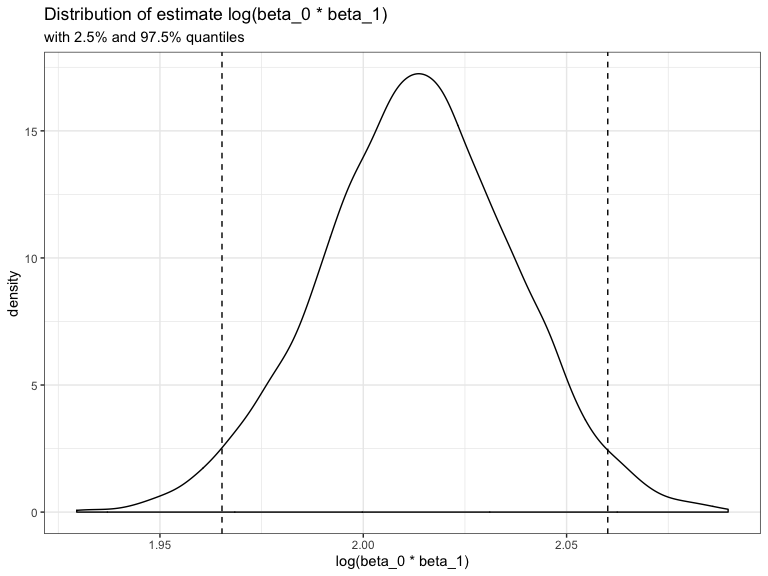
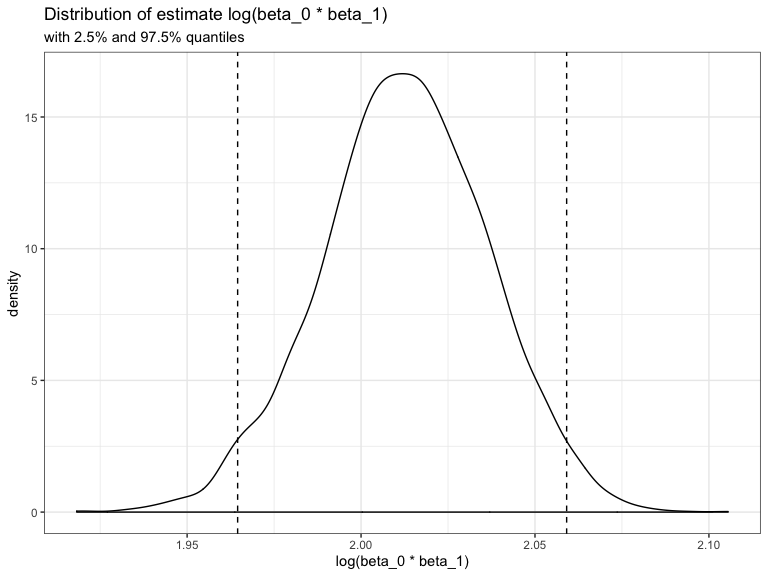
change cv to n =100

diff --git a/p8105_hw6_gl2677.md b/p8105_hw6_gl2677.md
@@ -49,7 +49,7 @@ more variance when the fitted values increase.
 
 ``` r
 cv_df = 
-  crossv_mc(birthweight, 5000, test = 0.2) %>%
+  crossv_mc(birthweight, 100, test = 0.2) %>%
   mutate(
     train = map(train, as_tibble),
     test = map(test, as_tibble)) %>% 
@@ -166,7 +166,7 @@ results %>%
     `log(beta_0*beta_1)` is approximately 2.01, and the range of
     `r_squared` is from 1.918 to 2.106.
 
-  - The 95% confidence interval for `r_squared` is (0.895, 0.927)
+  - The 95% confidence interval for `r_squared` is (0.894, 0.928)
 
   - The 95% confidence interval for `log(beta_0*beta_1)` is (1.965,
-    2.06)
+    2.059)
